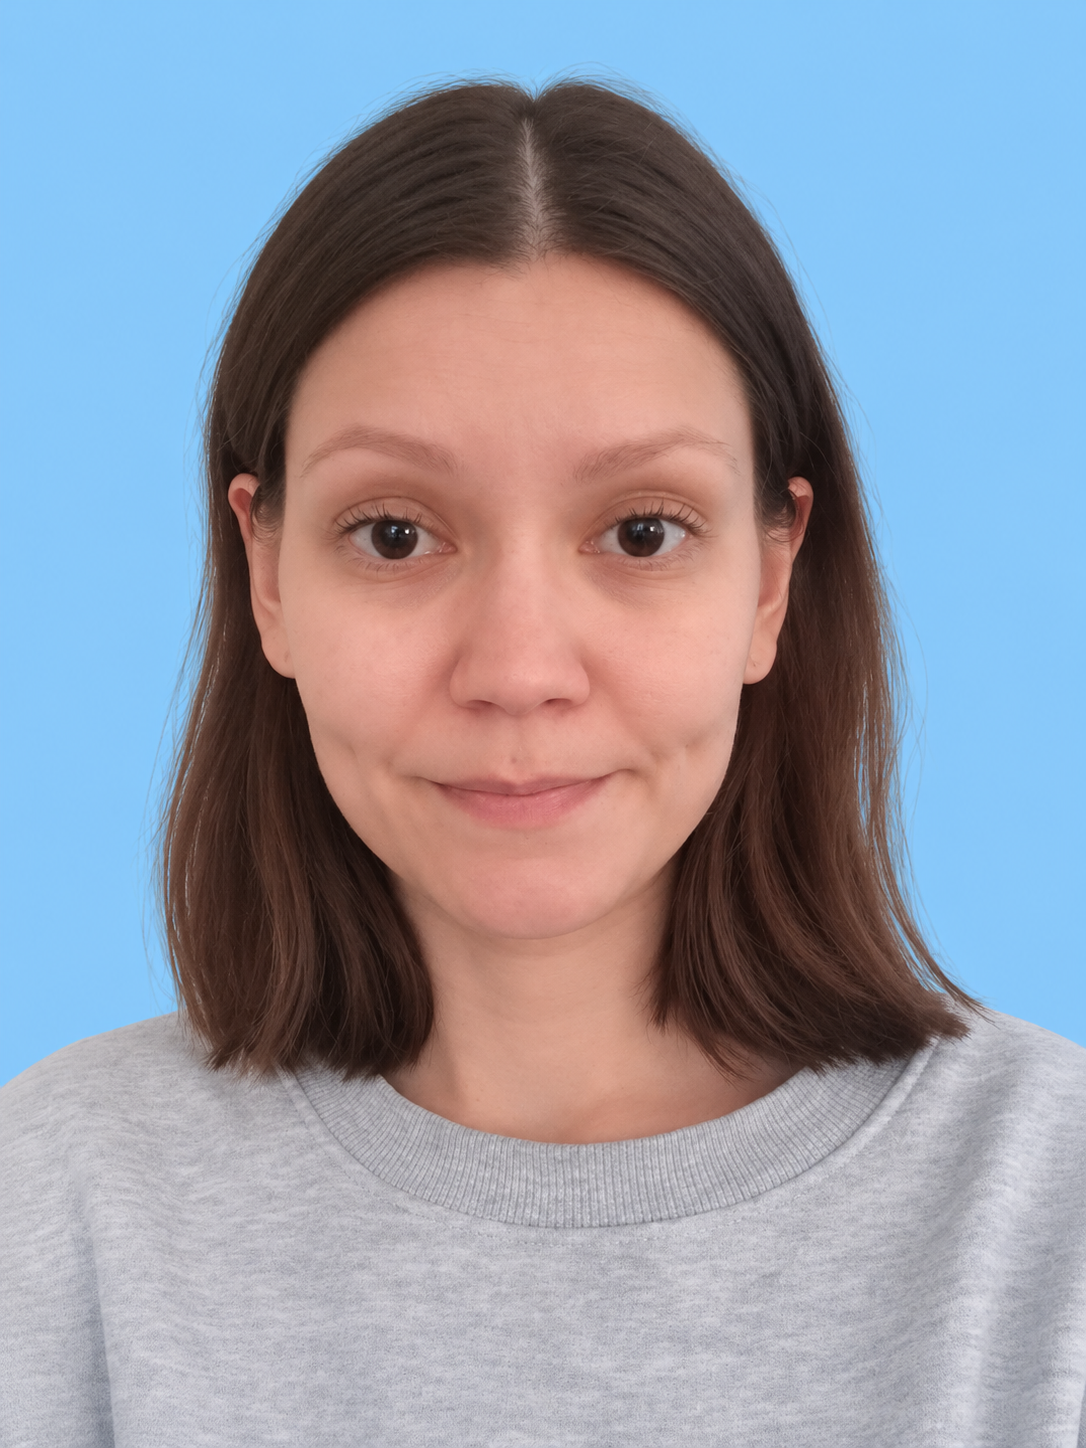
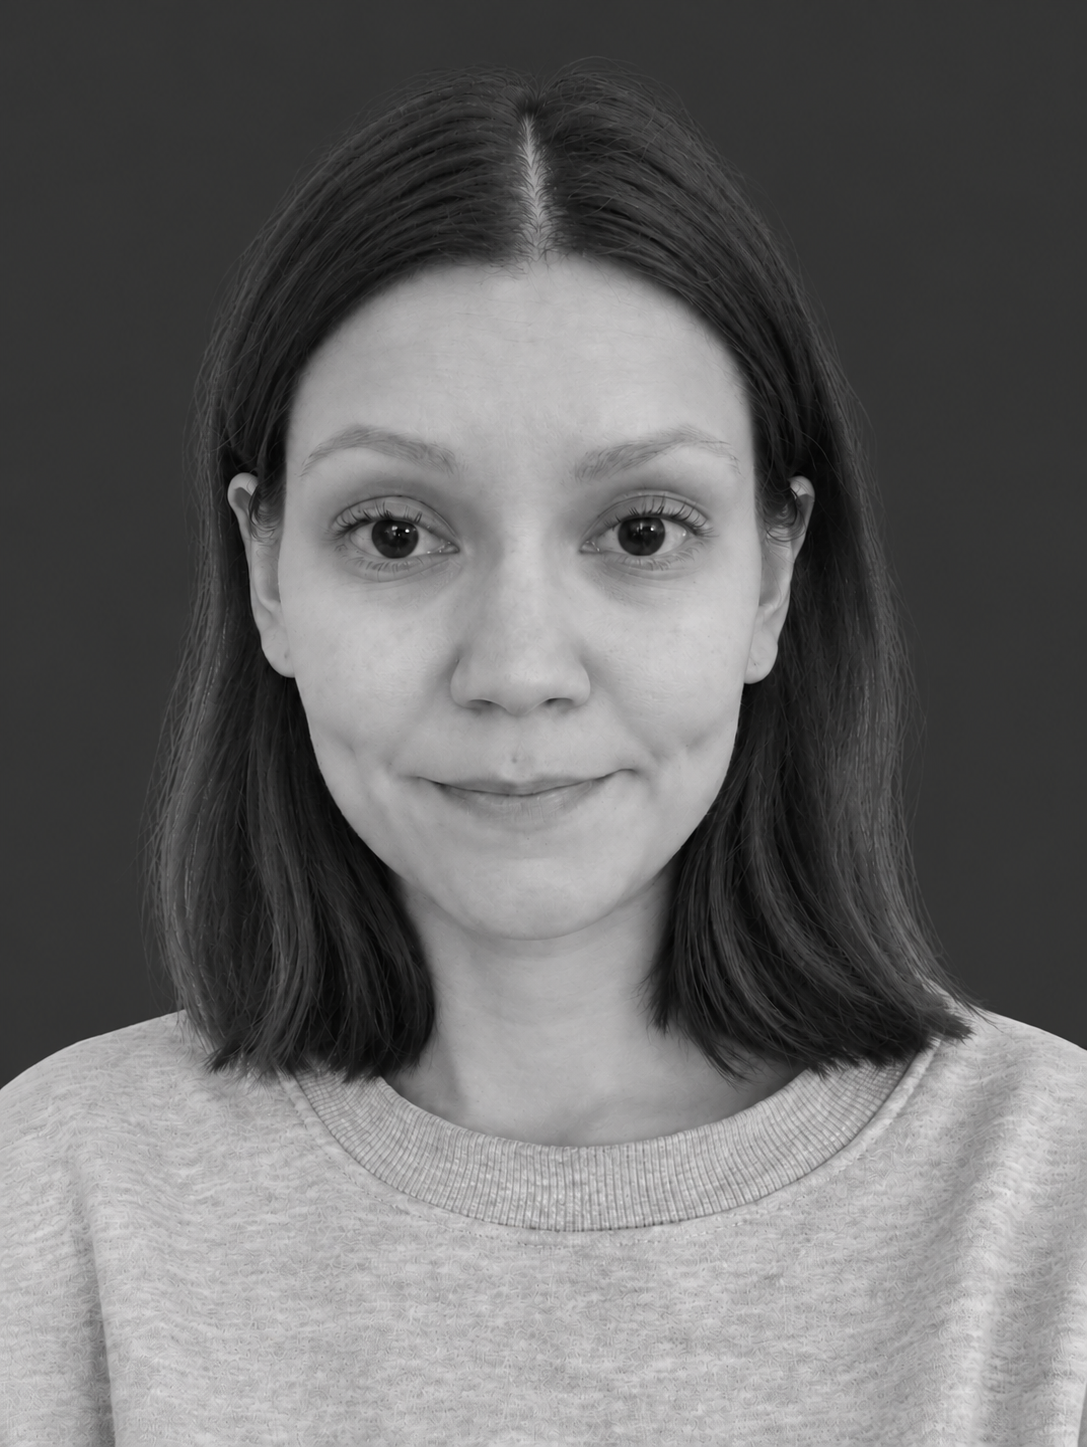
Add contact page content

diff --git a/src/pages/Contact/Contact.tsx b/src/pages/Contact/Contact.tsx
@@ -1,26 +1,36 @@
+import './Contact.css'
 import { FontAwesomeIcon } from '@fortawesome/react-fontawesome'
 import { faLinkedinIn, faGithub } from '@fortawesome/free-brands-svg-icons'
 
 const Contact = () => {
   return (
     <section id="contact">
-      <h2>Kontakt</h2>
-
-      <div className="socials">
-        <a
-          href="#"
-          aria-label="GitHub"
-          className="inline-flex h-11 w-11 items-center justify-center"
-        >
-          <FontAwesomeIcon icon={faGithub} />
+      <div className="contact-content">
+        <h2>Ska vi höras?</h2>
+        <p>
+          Jag är alltid öppen för nya kontakter, spännande idéer och möjligheter
+          att utvecklas inom frontendutveckling.
+        </p>
+        <p>Skriv till mig!</p>
+        <a href="mailto:angelie.angman@gmail.com" className="contact-email">
+          angelie.angman@gmail.com
         </a>
-        <a
-          href="#"
-          aria-label="LinkedIn"
-          className="inline-flex h-11 w-11 items-center justify-center"
-        >
-          <FontAwesomeIcon icon={faLinkedinIn} />
-        </a>
+        <div className="socials">
+          <a
+            href="#"
+            aria-label="GitHub"
+            className="inline-flex h-11 w-11 items-center justify-center"
+          >
+            <FontAwesomeIcon icon={faGithub} />
+          </a>
+          <a
+            href="#"
+            aria-label="LinkedIn"
+            className="inline-flex h-11 w-11 items-center justify-center"
+          >
+            <FontAwesomeIcon icon={faLinkedinIn} />
+          </a>
+        </div>
       </div>
     </section>
   )

diff --git a/src/pages/About/About.tsx b/src/pages/About/About.tsx
@@ -22,11 +22,10 @@ const About = () => {
             saker, även när det innebär att ge mig ut på okänd mark.
           </p>
           <p>
-            På fritiden, när jag inte sitter vid tangentbordet, går jag
-            förmodligen runt hemma och hittar nya sätt att förbättra det
-            estetiskt. Annars blir det gärna soffhäng med en film, serie eller
-            bok, eller tid med min sambo – eller både och. Får jag riktigt
-            feeling plockar jag fram gitarren eller börjar måla!
+            På fritiden går jag förmodligen runt i mitt hem och försöker
+            förbättra det estetiskt. Annars blir det gärna soffan med en film,
+            serie eller bok, eller så spenderar jag tid med min sambo – eller
+            både och. Får jag feeling så går jag en lång skogspromenad.
           </p>
           <p>
             Nu söker jag en LIA-plats inom frontendutveckling och ser fram emot

diff --git a/src/pages/Contact/Contact.css b/src/pages/Contact/Contact.css
@@ -1,0 +1,41 @@
+main {
+  display: flex;
+  justify-content: center;
+  align-items: center;
+}
+
+#contact {
+  text-align: center;
+}
+
+#contact h2 {
+  margin-bottom: 1rem;
+}
+
+#contact p {
+  margin-bottom: 1rem;
+  font-size: 1rem;
+}
+
+.contact-email {
+  text-decoration: underline;
+  text-underline-offset: 4px;
+  font-size: 1rem;
+}
+
+.contact-email:hover {
+  color: var(--color-hoover-text);
+}
+
+.socials {
+  text-align: center;
+  margin-top: 2rem;
+}
+
+.socials a {
+  font-size: 1.4rem;
+}
+
+.socials-text {
+  font-size: 1rem;
+}

diff --git a/src/index.css b/src/index.css
@@ -22,7 +22,7 @@
 }
 
 .dark {
-  --color-background: #2a2a2a;
+  --color-background: #1f1f1f;
   --color-overlay: #1a1a1a;
   --color-text: #f5f5f5;
   --color-accent-bg: #353535;

diff --git a/src/pages/About/About.css b/src/pages/About/About.css
@@ -1,7 +1,7 @@
 .about-content {
   display: grid;
   grid-template-columns: 1fr;
-  gap: 2rem;
+  gap: 1rem;
 
   max-width: 500px;
   margin: 0 auto;

diff --git a/src/pages/Home/Home.css b/src/pages/Home/Home.css
@@ -22,11 +22,3 @@
   text-align: center;
   margin-bottom: 2.3rem;
 }
-
-.socials {
-  text-align: center;
-}
-
-.socials a {
-  font-size: 1.4rem;
-}
